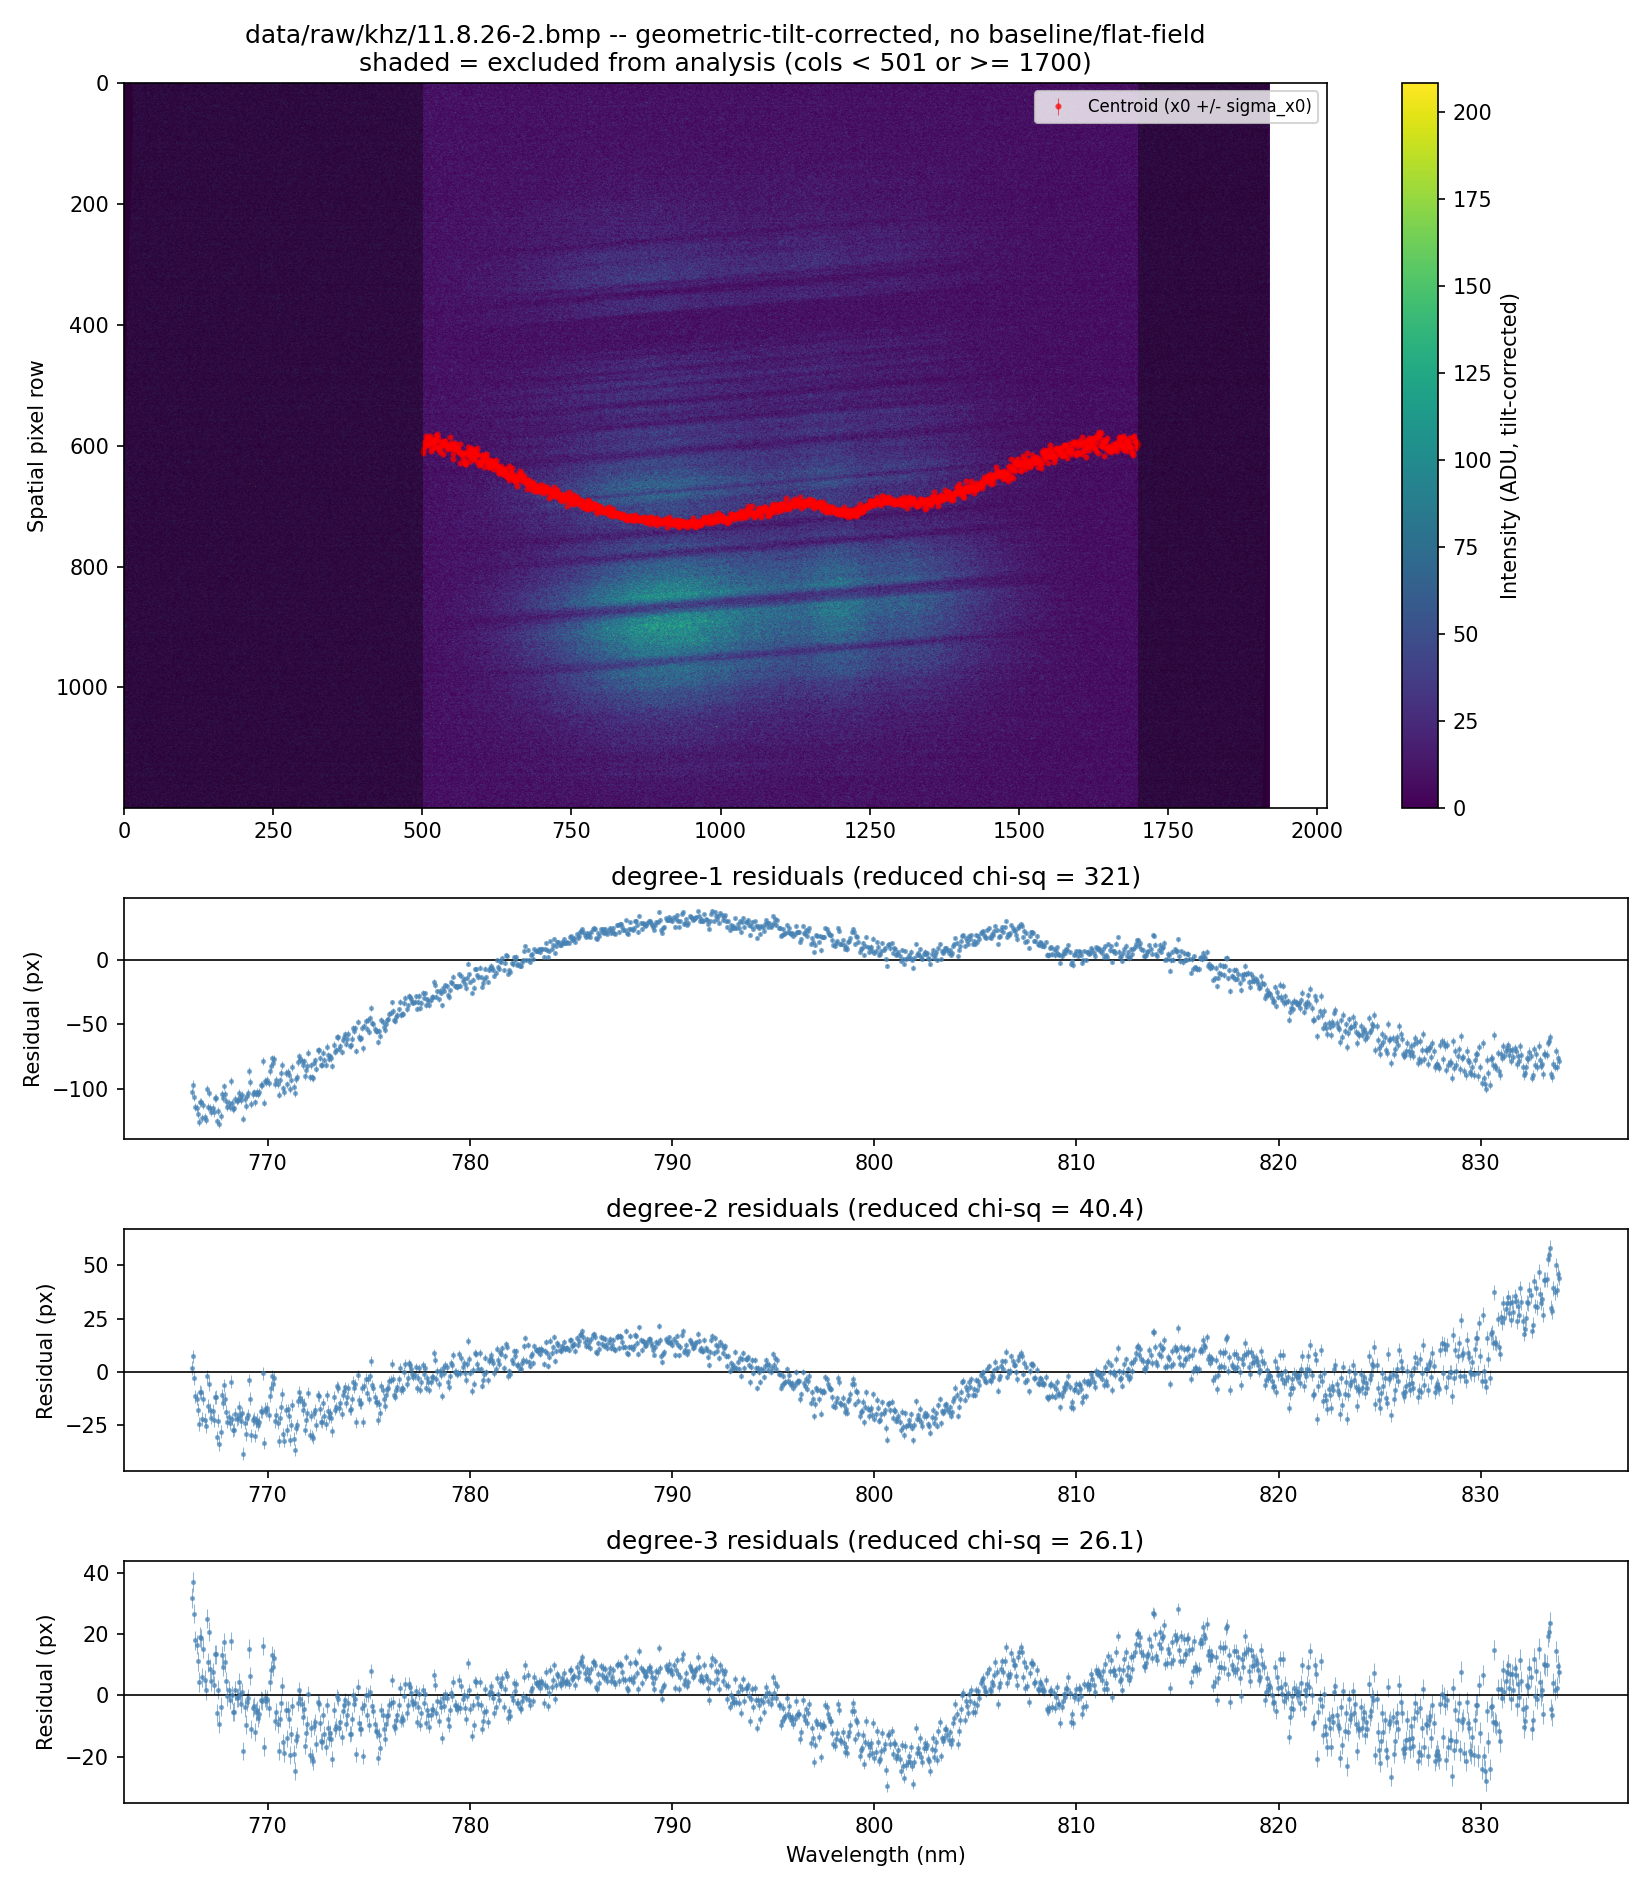
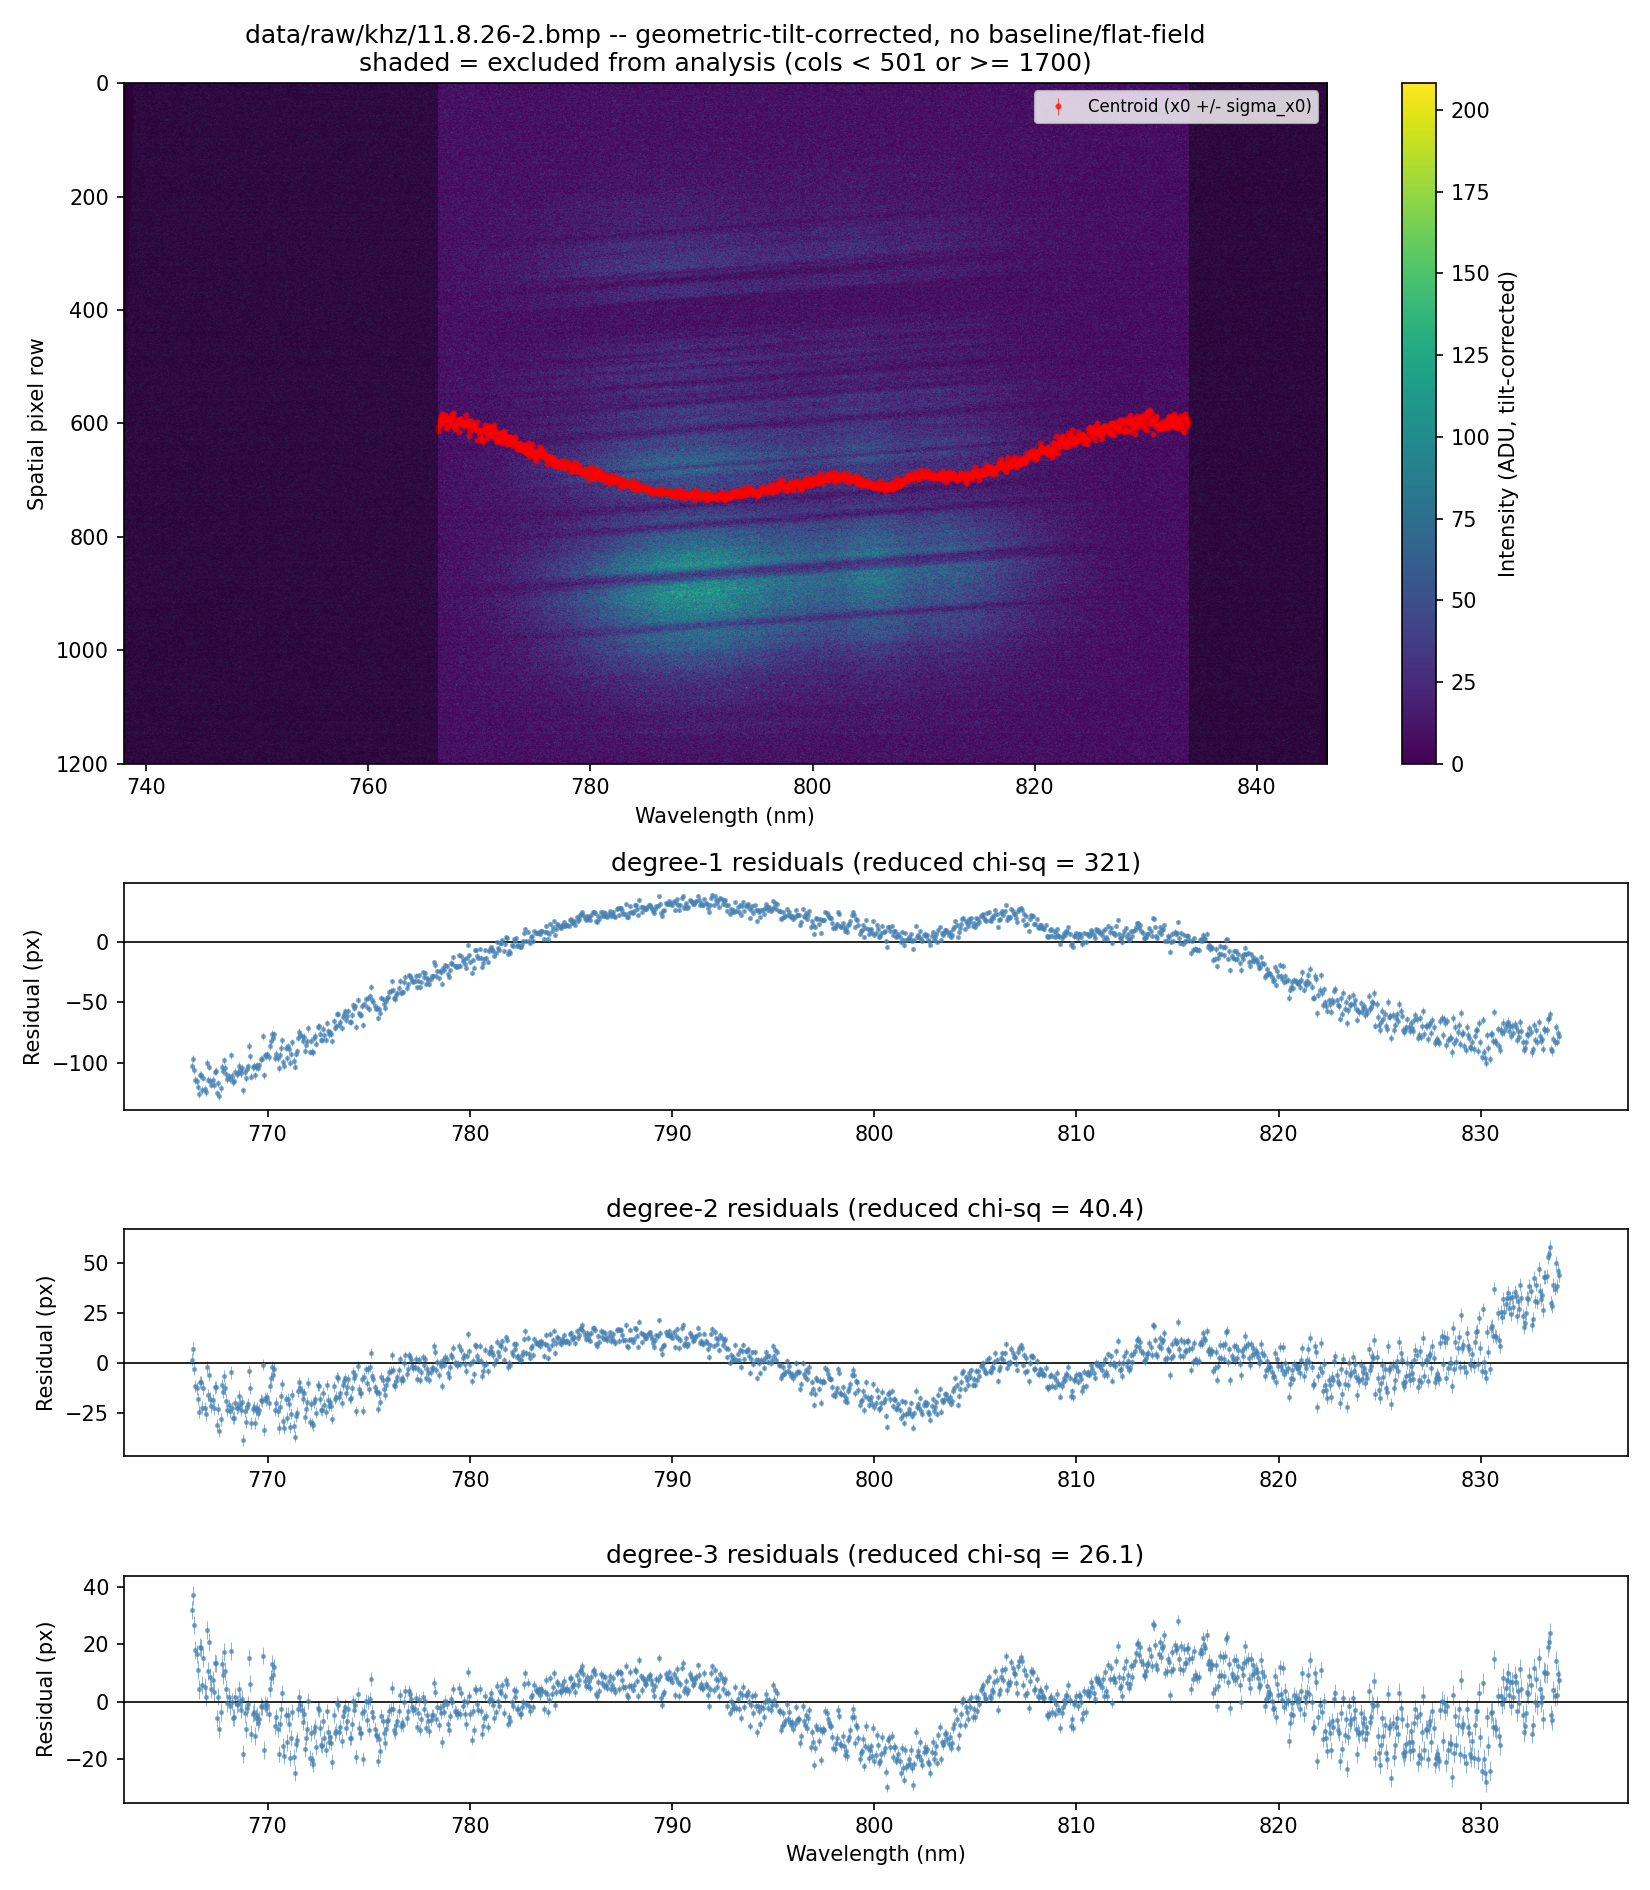
Plot spatial dispersion heatmap on a true wavelength axis

diff --git a/scripts/measure_spatial_dispersion.py b/scripts/measure_spatial_dispersion.py
@@ -140,20 +140,72 @@ def print_report(result: ShotAnalysisResult, wavelength_axis) -> None:
         print(f"  degree {degree}: {fit.reduced_chi_squared:.4g}")
 
 
+def resample_to_wavelength_grid(image: np.ndarray, wavelength_axis) -> tuple[np.ndarray, np.ndarray]:
+
+    '''
+    Resamples image's columns from pixel-index space onto a uniform
+    wavelength grid via wavelength_axis's pixel -> wavelength_nm mapping.
+    Needed for plot_result()'s heatmap to be honestly labelled "wavelength"
+    on its x-axis -- relabelling pixel-index tick marks alone would only
+    be correct if the calibration were exactly linear; this is exact
+    regardless of the fitted degree, by construction.
+
+    Parameters
+    ----------
+    image
+        2D array, columns in pixel-index order (e.g. an already
+        geometric-tilt-corrected frame).
+    wavelength_axis
+        Anything with a wavelength_nm(pixel) method, e.g. a loaded
+        WavelengthCalibrationResult.
+
+    Returns
+    -------
+    tuple[np.ndarray, np.ndarray]
+        (wavelength_grid, resampled_image) -- wavelength_grid is
+        ascending and evenly spaced; resampled_image has the same shape
+        as image, with resampled_image[:, i] corresponding to
+        wavelength_grid[i].
+    '''
+
+    n_rows, n_columns = image.shape
+    columns = np.arange(n_columns, dtype=np.float64)
+    wavelength_per_column = wavelength_axis.wavelength_nm(columns)
+
+    # np.interp requires ascending x -- sort once here rather than assume
+    # wavelength increases with column (grating orientation isn't fixed,
+    # see line_matching.py's own module docstring on this same point).
+    order = np.argsort(wavelength_per_column)
+    sorted_wavelength = wavelength_per_column[order]
+    wavelength_grid = np.linspace(sorted_wavelength[0], sorted_wavelength[-1], n_columns)
+
+    resampled_image = np.empty_like(image)
+    for row in range(n_rows):
+        resampled_image[row] = np.interp(wavelength_grid, sorted_wavelength, image[row, order])
+
+    return wavelength_grid, resampled_image
+
+
 def plot_result(
-    image: np.ndarray, wavelength_nm: np.ndarray, result: ShotAnalysisResult,
+    image: np.ndarray, wavelength_axis, result: ShotAnalysisResult,
     col_min: int, col_max: int, output_path: Path,
 ) -> None:
 
     '''
     Heatmap with centroids overlaid (top), then one residuals panel per
-    fitted degree, sharing the wavelength x-axis -- so the three degrees'
-    residual scatter/structure can be compared directly by eye alongside
-    the printed reduced-chi-squared numbers.
+    fitted degree -- every panel shares a genuine wavelength x-axis (see
+    resample_to_wavelength_grid()), so the heatmap, centroids, and
+    residuals are all directly comparable, not just the bottom panels.
     '''
 
     centroids = result.centroids
     degrees = sorted(result.fits)
+
+    wavelength_grid, wavelength_image = resample_to_wavelength_grid(image, wavelength_axis)
+    centroid_wavelength_nm = wavelength_axis.wavelength_nm(centroids.columns)
+    col_min_wavelength_nm, col_max_wavelength_nm = sorted(
+        wavelength_axis.wavelength_nm(np.array([col_min, col_max])).tolist()
+    )
 
     fig, axes = plt.subplots(
         1 + len(degrees), 1, figsize=(11, 6 + 2.2 * len(degrees)),
@@ -161,21 +213,27 @@ def plot_result(
     )
     ax_image = axes[0]
 
-    im = ax_image.imshow(image, cmap="viridis", origin="upper", aspect="auto")
+    extent = (wavelength_grid[0], wavelength_grid[-1], image.shape[0], 0)
+    im = ax_image.imshow(wavelength_image, cmap="viridis", origin="upper", aspect="auto", extent=extent)
     fig.colorbar(im, ax=ax_image, label="Intensity (ADU, tilt-corrected)")
 
-    n_columns = image.shape[1]
     if col_min > 0:
-        ax_image.axvspan(0, col_min, color="black", alpha=0.35, linewidth=0, zorder=2.5)
-    if col_max < n_columns:
-        ax_image.axvspan(col_max, n_columns, color="black", alpha=0.35, linewidth=0, zorder=2.5)
+        ax_image.axvspan(
+            wavelength_grid[0], col_min_wavelength_nm, color="black", alpha=0.35, linewidth=0, zorder=2.5
+        )
+    if col_max < image.shape[1]:
+        ax_image.axvspan(
+            col_max_wavelength_nm, wavelength_grid[-1], color="black", alpha=0.35, linewidth=0, zorder=2.5
+        )
 
     ax_image.errorbar(
-        centroids.columns, centroids.x0, yerr=centroids.sigma_x0,
+        centroid_wavelength_nm, centroids.x0, yerr=centroids.sigma_x0,
         fmt="o", color="red", markersize=2, elinewidth=0.5, alpha=0.6,
         label="Centroid (x0 +/- sigma_x0)",
     )
+    ax_image.set_xlim(wavelength_grid[0], wavelength_grid[-1])
     ax_image.set_ylabel("Spatial pixel row")
+    ax_image.set_xlabel("Wavelength (nm)")
     ax_image.set_title(
         f"{DEFAULT_IMAGE_PATH} -- geometric-tilt-corrected, no baseline/flat-field\n"
         f"shaded = excluded from analysis (cols < {col_min} or >= {col_max})"
@@ -185,7 +243,7 @@ def plot_result(
     for ax, degree in zip(axes[1:], degrees):
         fit = result.fits[degree]
         ax.errorbar(
-            wavelength_nm, fit.residuals, yerr=centroids.sigma_x0,
+            centroid_wavelength_nm, fit.residuals, yerr=centroids.sigma_x0,
             fmt=".", color="steelblue", markersize=3, elinewidth=0.5, alpha=0.6,
         )
         ax.axhline(0.0, color="black", linewidth=0.8)
@@ -231,9 +289,8 @@ def main() -> None:
 
     print_report(result, spectral)
 
-    wavelength_nm = spectral.wavelength_nm(result.centroids.columns)
     plot_result(
-        frame.image, wavelength_nm, result,
+        frame.image, spectral, result,
         col_min=args.col_min, col_max=args.col_max, output_path=args.output,
     )
 
